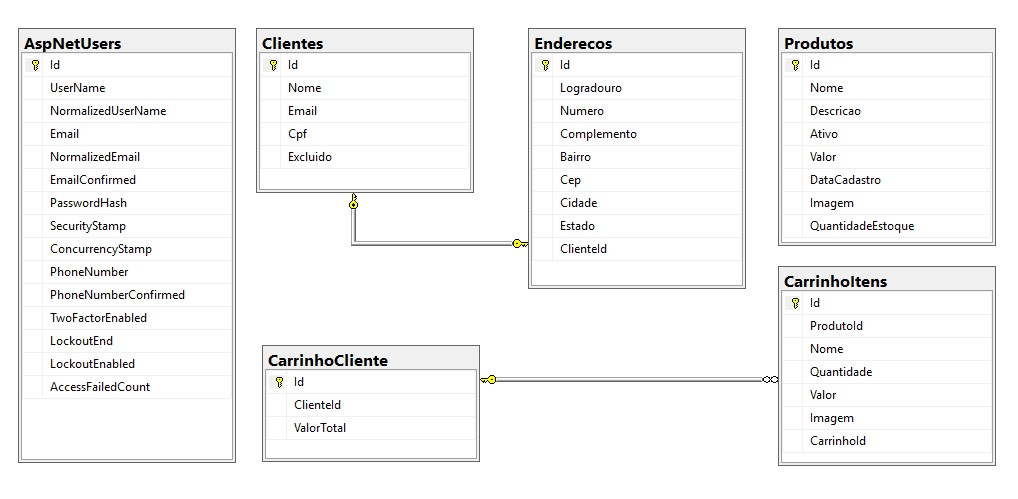
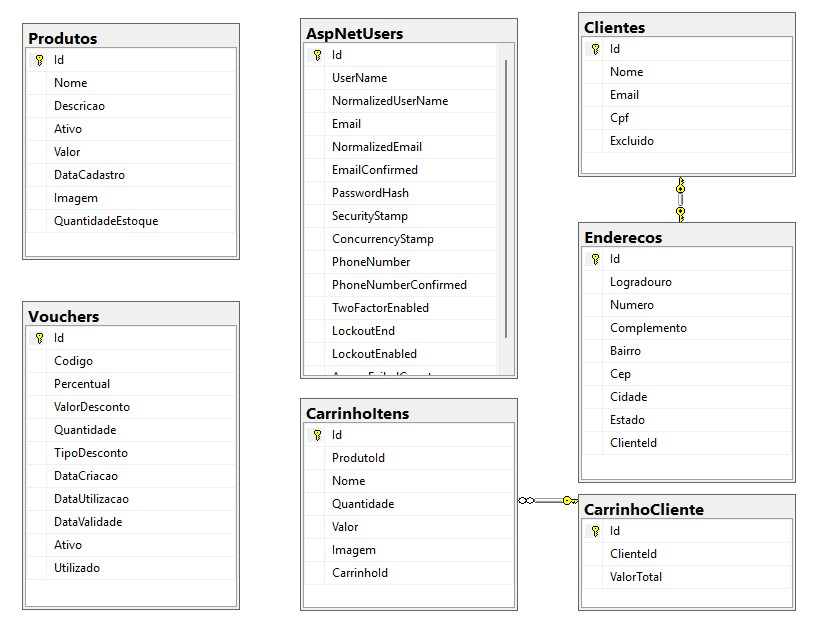
Implementa voucher com DTO, queries e spec no módulo de pedidos

Changed region(s): [[0.0, 0.0, 1.0, 0.992], [0.3663, 0.9619, 0.641, 0.992], [0.0305, 0.9619, 0.3053, 0.992]]

diff --git a/src/services/ECE.Pedido.API/Application/Queries/VoucherQueries.cs b/src/services/ECE.Pedido.API/Application/Queries/VoucherQueries.cs
@@ -1,0 +1,45 @@
+using ECE.Pedido.API.Application.DTO;
+using ECE.Pedido.Domain;
+using ECE.Pedido.Domain.Vouchers;
+using System.Threading.Tasks;
+
+namespace ECE.Pedido.API.Application.Queries
+{
+    public interface IVoucherQueries
+    {
+        Task<VoucherDTO> ObterVoucherPorCodigo(string codigo);
+    }
+
+    public class VoucherQueries : IVoucherQueries
+    {
+        private readonly IVoucherRepository _voucherRepository;
+
+        public VoucherQueries(IVoucherRepository voucherRepository)
+        {
+            _voucherRepository = voucherRepository;
+        }
+
+        public async Task<VoucherDTO> ObterVoucherPorCodigo(string codigo)
+        {
+            var voucher = await _voucherRepository.ObterVoucherPorCodigo(codigo);
+
+            if (voucher == null)
+            {
+                return null;
+            }
+
+            if (!voucher.EstaValidoParaUtilizacao())
+            {
+                return null;
+            }
+
+            return new VoucherDTO
+            {
+                Codigo = voucher.Codigo,
+                TipoDesconto = (int)voucher.TipoDesconto,
+                Percentual = voucher.Percentual,
+                ValorDesconto = voucher.ValorDesconto
+            };
+        }
+    }
+}

diff --git a/src/services/ECE.Pedido.Domain/Specs/VoucherSpec.cs b/src/services/ECE.Pedido.Domain/Specs/VoucherSpec.cs
@@ -1,0 +1,31 @@
+using ECE.Pedido.Domain.Vouchers;
+using NetDevPack.Specification;
+using System;
+using System.Linq.Expressions;
+
+namespace ECE.Pedido.Domain.Specs
+{
+    public class VoucherDataSpecification : Specification<Voucher>
+    {
+        public override Expression<Func<Voucher, bool>> ToExpression()
+        {
+            return voucher => voucher.DataValidade >= DateTime.Now;
+        }
+    }
+
+    public class VoucherQuantidadeSpecification : Specification<Voucher>
+    {
+        public override Expression<Func<Voucher, bool>> ToExpression()
+        {
+            return voucher => voucher.Quantidade > 0;
+        }
+    }
+
+    public class VoucherAtivoSpecification : Specification<Voucher>
+    {
+        public override Expression<Func<Voucher, bool>> ToExpression()
+        {
+            return voucher => voucher.Ativo && !voucher.Utilizado;
+        }
+    }
+}

diff --git a/src/services/ECE.Pedido.Domain/Vouchers/Voucher.cs b/src/services/ECE.Pedido.Domain/Vouchers/Voucher.cs
@@ -1,4 +1,5 @@
 using ECE.Core.DomainObjets;
+using ECE.Pedido.Domain.Specs;
 using System;
 
 namespace ECE.Pedido.Domain.Vouchers
@@ -15,5 +16,19 @@ namespace ECE.Pedido.Domain.Vouchers
         public DateTime DataValidade { get; private set; }
         public bool Ativo { get; private set; }
         public bool Utilizado { get; set; }
+
+        public bool EstaValidoParaUtilizacao()
+        {
+            var spec = new VoucherAtivoSpecification()
+                .And(new VoucherDataSpecification()
+                .And(new VoucherQuantidadeSpecification()));
+
+            return spec.IsSatisfiedBy(this);
+        }
+
+        public void MarcarComoUtilizado()
+        {
+
+        }
     }
 }

diff --git a/src/services/ECE.Pedido.API/Application/DTO/VoucherDTO.cs b/src/services/ECE.Pedido.API/Application/DTO/VoucherDTO.cs
@@ -1,0 +1,10 @@
+namespace ECE.Pedido.API.Application.DTO
+{
+    public class VoucherDTO
+    {
+        public string Codigo { get; set; }
+        public decimal? Percentual { get; set; }
+        public decimal? ValorDesconto { get; set; }
+        public int TipoDesconto { get; set; }
+    }
+}
